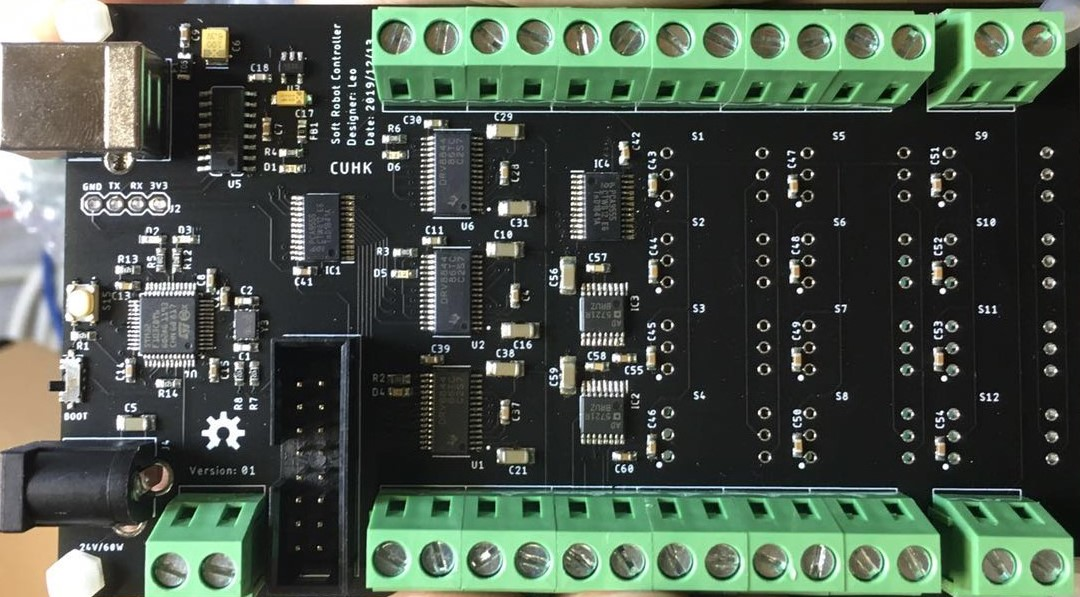
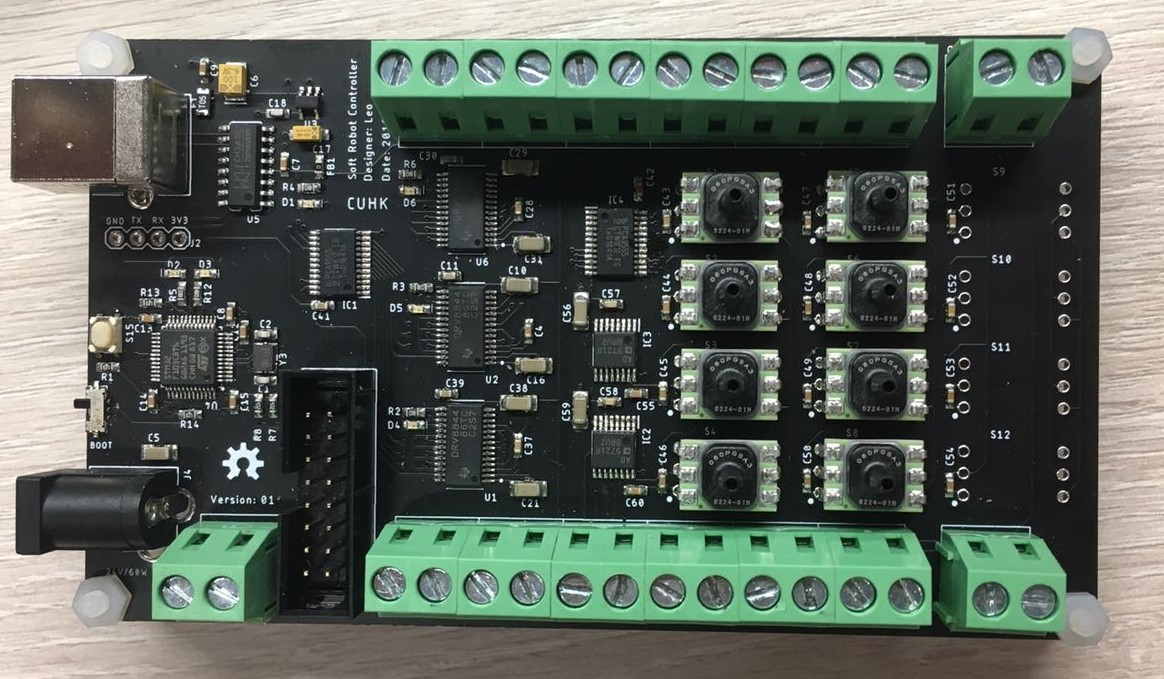
V1.0.0 update
V1.0.0 update

diff --git a/README.md b/README.md
@@ -1,8 +1,8 @@
-[![Release](https://img.shields.io/badge/Release-Ver0.1.0-blue.svg)](https://github.com/LeoAndGit/Soft_Robot_Controller/releases)
+[![Release](https://img.shields.io/badge/Release-Ver1.0.0-blue.svg)](https://github.com/LeoAndGit/Soft_Robot_Controller/releases)
 
 Soft_Robot_Controller
 ===========================
-This a board for soft robots. It has 12 channels of 24V half-bridge output to control electromagnetic valves, 12 pressure sensors and 2 DACs to provide 0V-10V analog signals. 
+This is a board for soft robots. It has 12 channels of 24V half-bridge output to control electromagnetic valves, 12 pressure sensors (ABP series form Honeywell) and 2 DACs to provide 0V-10V analog signals. 
 
 ****
 Author: Leo
@@ -27,7 +27,7 @@ BUGs on SoftRobotController-01:
 - PCB 
 <img src="/Image/PCB01.png" width="450px" />
 
-- Photo of board (not finished yet)
+- Photo of board
 <img src="/Image/board01.jpg" width="450px" />
 
 Arduino code
@@ -39,6 +39,11 @@ Arduino STM32 library: https://github.com/rogerclarkmelbourne/Arduino_STM32
 You will still need this PCA9555 library modified by myself: https://github.com/LeoAndGit/PCA9555
 
 ***************************
+V1.0.0 code feature:
+- Support pressure sensor data reading
+- **Send**: AT+PREAD=XX\r\n  
+  **Reply**: YYYY\r\n OK\r\n  
+  **Description**: for testing. xx is which sensor you want to reading. xx=01 means S01 on board. YYYY is HEX data from pressure sensor. More information about the data can be found in technical note about SPI communication and datasheet from Honeywell.
 
 V0.1.0 code feature:
 - Support control every independent half-bridge output
